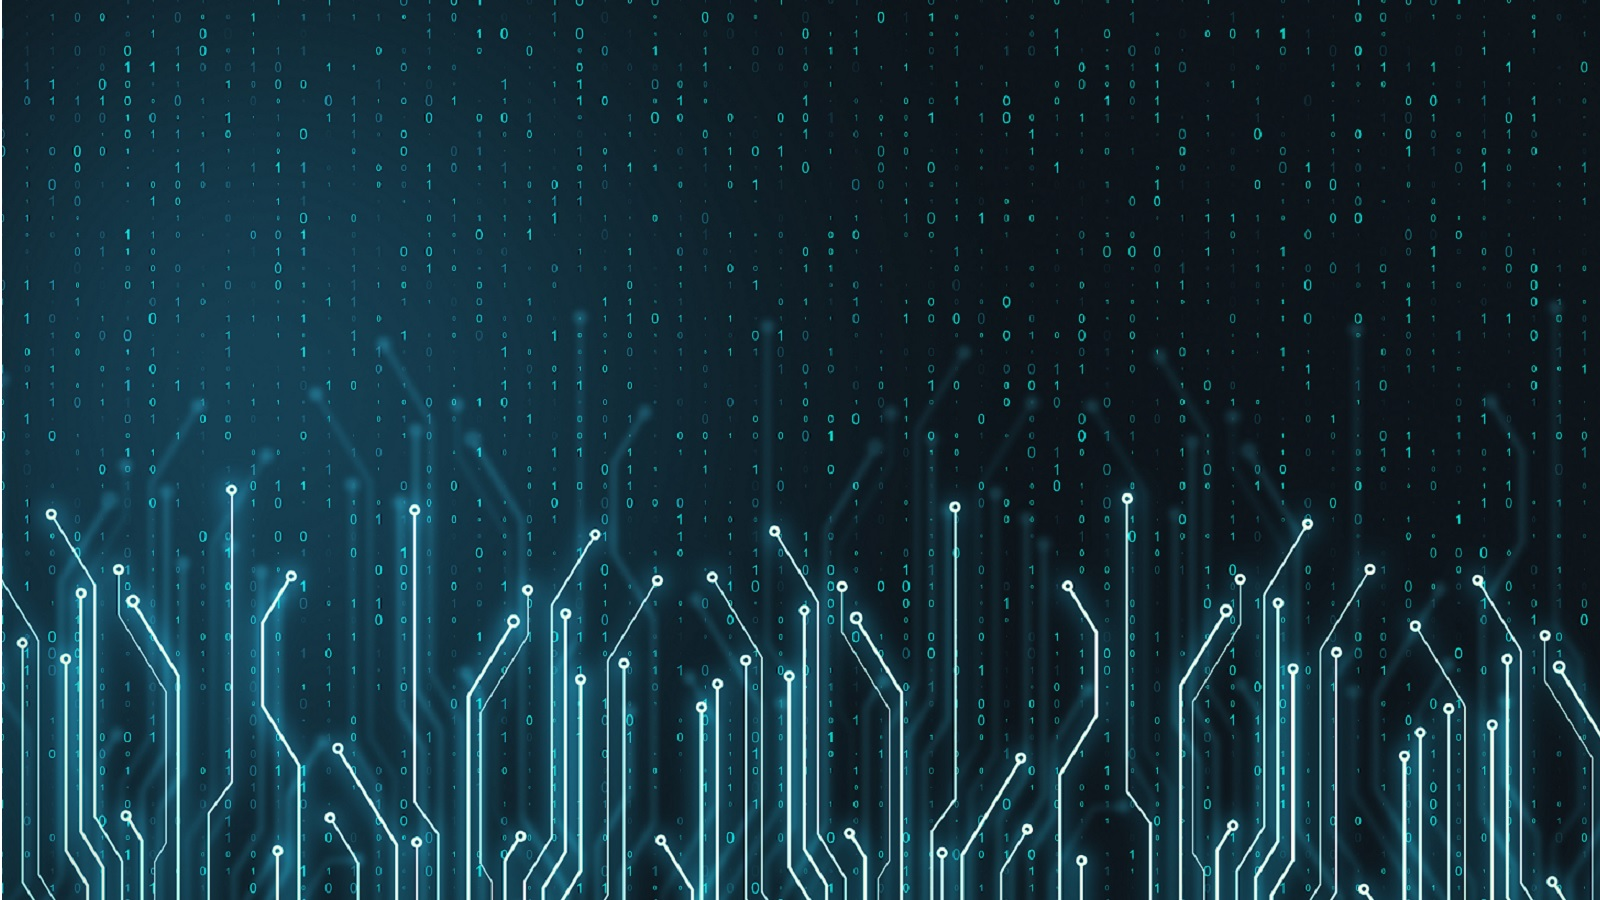
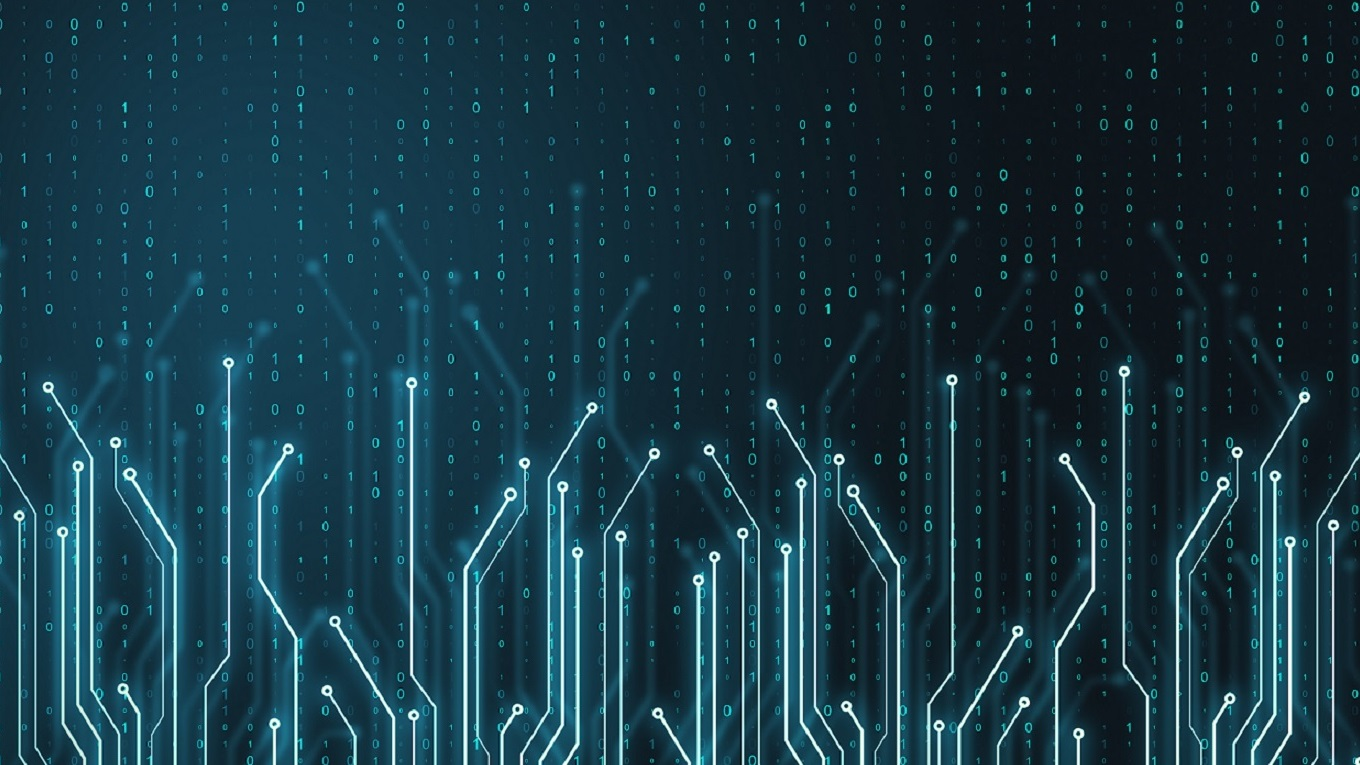
resize and adjust

diff --git a/varSetup.h b/varSetup.h
@@ -26,33 +26,33 @@ struct Block{
 
 void atribuire(){
 //Start
-ButtonsFirstMenu[0].up_left.x=500;
+ButtonsFirstMenu[0].up_left.x=380;
 ButtonsFirstMenu[0].up_left.y=450;
-ButtonsFirstMenu[0].dwn_right.x=1100;
+ButtonsFirstMenu[0].dwn_right.x=980;
 ButtonsFirstMenu[0].dwn_right.y=480;
 strcpy(ButtonsFirstMenu[0].text,"Start");
 ButtonsFirstMenu[0].textSize=3;
 ButtonsFirstMenu[0].color=3;
 //Setari
-ButtonsFirstMenu[1].up_left.x=500;
+ButtonsFirstMenu[1].up_left.x=380;
 ButtonsFirstMenu[1].up_left.y=500;
-ButtonsFirstMenu[1].dwn_right.x=1100;
+ButtonsFirstMenu[1].dwn_right.x=980;
 ButtonsFirstMenu[1].dwn_right.y=530;
 strcpy(ButtonsFirstMenu[1].text,"Setari");
 ButtonsFirstMenu[1].textSize=3;
 ButtonsFirstMenu[1].color=3;
 //Info?
-ButtonsFirstMenu[2].up_left.x=500;
+ButtonsFirstMenu[2].up_left.x=380;
 ButtonsFirstMenu[2].up_left.y=550;
-ButtonsFirstMenu[2].dwn_right.x=1100;
+ButtonsFirstMenu[2].dwn_right.x=980;
 ButtonsFirstMenu[2].dwn_right.y=580;
 strcpy(ButtonsFirstMenu[2].text,"Info");
 ButtonsFirstMenu[2].textSize=3;
 ButtonsFirstMenu[2].color=3;
 //Iesire
-ButtonsFirstMenu[3].up_left.x=500;
+ButtonsFirstMenu[3].up_left.x=380;
 ButtonsFirstMenu[3].up_left.y=600;
-ButtonsFirstMenu[3].dwn_right.x=1100;
+ButtonsFirstMenu[3].dwn_right.x=980;
 ButtonsFirstMenu[3].dwn_right.y=630;
 strcpy(ButtonsFirstMenu[3].text,"Iesire");
 ButtonsFirstMenu[3].textSize=3;
@@ -66,77 +66,77 @@ ButtonsFirstMenu[3].color=3;
 ButtonsApp[0].up_left.x=5;
 ButtonsApp[0].up_left.y=5;
 ButtonsApp[0].dwn_right.x=100;
-ButtonsApp[0].dwn_right.y=60;
+ButtonsApp[0].dwn_right.y=40;
 strcpy(ButtonsApp[0].text,"Inapoi");
-ButtonsApp[0].textSize=3;
+ButtonsApp[0].textSize=2;
 ButtonsApp[0].color=3;
 //Schema noua
 ButtonsApp[1].up_left.x=110;
 ButtonsApp[1].up_left.y=5;
-ButtonsApp[1].dwn_right.x=469;
-ButtonsApp[1].dwn_right.y=60;
+ButtonsApp[1].dwn_right.x=310;
+ButtonsApp[1].dwn_right.y=40;
 strcpy(ButtonsApp[1].text,"Schema noua");
-ButtonsApp[1].textSize=3;
+ButtonsApp[1].textSize=2;
 ButtonsApp[1].color=3;
 //Incarcare schema
-ButtonsApp[2].up_left.x=480;
+ButtonsApp[2].up_left.x=320;
 ButtonsApp[2].up_left.y=5;
-ButtonsApp[2].dwn_right.x=838;
-ButtonsApp[2].dwn_right.y=60;
+ButtonsApp[2].dwn_right.x=570;
+ButtonsApp[2].dwn_right.y=40;
 strcpy(ButtonsApp[2].text,"Incarcare schema");
-ButtonsApp[2].textSize=3;
+ButtonsApp[2].textSize=2;
 ButtonsApp[2].color=3;
 //Salvare schema
-ButtonsApp[3].up_left.x=850;
+ButtonsApp[3].up_left.x=580;
 ButtonsApp[3].up_left.y=5;
-ButtonsApp[3].dwn_right.x=1175;
-ButtonsApp[3].dwn_right.y=60;
+ButtonsApp[3].dwn_right.x=830;
+ButtonsApp[3].dwn_right.y=40;
 strcpy(ButtonsApp[3].text,"Salvare schema");
-ButtonsApp[3].textSize=3;
+ButtonsApp[3].textSize=2;
 ButtonsApp[3].color=3;
 ///////////////////////////////////////////
 // Panou stanga
 ///////////////////////////////////////////
 
 // Executa
-PannelSchem[0].up_left.x=1070;
-PannelSchem[0].up_left.y=70;
-PannelSchem[0].dwn_right.x=1175;
-PannelSchem[0].dwn_right.y=130;
+PannelSchem[0].up_left.x=840;
+PannelSchem[0].up_left.y=2;
+PannelSchem[0].dwn_right.x=1025;
+PannelSchem[0].dwn_right.y=43;
 strcpy(PannelSchem[0].text,"Executa");
 PannelSchem[0].textSize=2;
 PannelSchem[0].color=2;
 // Pranteza sus [
 PannelSchem[1].up_left.x=5;
-PannelSchem[1].up_left.y=70;
+PannelSchem[1].up_left.y=45;
 PannelSchem[1].dwn_right.x=100;
-PannelSchem[1].dwn_right.y=110;
+PannelSchem[1].dwn_right.y=80;
 PannelSchem[1].color=3;
 // Fundal
 PannelSchem[3].up_left.x=15;
-PannelSchem[3].up_left.y=85;
+PannelSchem[3].up_left.y=63;
 PannelSchem[3].dwn_right.x=90;
-PannelSchem[3].dwn_right.y=880;
+PannelSchem[3].dwn_right.y=745;
 PannelSchem[3].color=15;
 //   Pranteza jos ]
 PannelSchem[2].up_left.x=5;
-PannelSchem[2].up_left.y=855;
+PannelSchem[2].up_left.y=725;
 PannelSchem[2].dwn_right.x=100;
-PannelSchem[2].dwn_right.y=895;
+PannelSchem[2].dwn_right.y=763;
 PannelSchem[2].color=3;
 //  Block Start
 PannelSchem[4].up_left.x=110;
-PannelSchem[4].up_left.y=70;
-PannelSchem[4].dwn_right.x=1055;
-PannelSchem[4].dwn_right.y=110;
+PannelSchem[4].up_left.y=45;
+PannelSchem[4].dwn_right.x=1025;
+PannelSchem[4].dwn_right.y=80;
 PannelSchem[4].color=3;
 strcpy(PannelSchem[4].text,"START");
 PannelSchem[4].textSize=4;
 // Block Stop
 PannelSchem[5].up_left.x=110;
-PannelSchem[5].up_left.y=855;
-PannelSchem[5].dwn_right.x=1175;
-PannelSchem[5].dwn_right.y=895;
+PannelSchem[5].up_left.y=725;
+PannelSchem[5].dwn_right.x=1025;
+PannelSchem[5].dwn_right.y=763;
 PannelSchem[5].color=3;
 strcpy(PannelSchem[5].text,"STOP");
 PannelSchem[5].textSize=4;

diff --git a/Schem.h b/Schem.h
@@ -1,9 +1,9 @@
 #include "varSetup.h"
 
-int x[4]={10,50,10,30};
-int y[4]={200,350,550,720};
-int cx[4]={10,50,10,30};
-int cy[4]={200,350,550,720};
+int x[4]={7,49,7,27};
+int y[4]={140,280,460,620};
+int cx[4]={7,49,7,27};
+int cy[4]={140,280,460,620};
 void atribuireSchem()
 {
     //////////////////////////////////
@@ -173,6 +173,7 @@ if(ismouseclick(WM_RBUTTONDOWN))
                    ok=0;
                    clearmouseclick(WM_RBUTTONDOWN);
         clearmouseclick(WM_RBUTTONUP);
+        DrawButtons(ButtonsApp,nrOfButtons);
                }
 }
         clearmouseclick(WM_LBUTTONUP);

diff --git a/App.h b/App.h
@@ -2,7 +2,7 @@
 //#include <bits/stdc++.h>
 void App()
 {
-    readimagefile("bckgnd.jpg", 0, 0, 1600, 900);
+    readimagefile("bckgnd.jpg", 0, 0, 1360, 765);
     setfillstyle( SOLID_FILL, RGB(0,155,155));
         DrawButtons(ButtonsApp,nrOfButtons);
 

diff --git a/main.cpp b/main.cpp
@@ -4,7 +4,7 @@ using namespace std;
 
 int main()
 {
-    initwindow(1600, 900, "Interschem Puiu Robert si Sirbu Sandu");
+    initwindow(1360, 765, "Interschem Puiu Robert si Sirbu Sandu");
     firstMenu();
     while(!CloseMenu)
     getch();

diff --git a/firstMenu.h b/firstMenu.h
@@ -3,7 +3,7 @@
 
 void firstMenu(){
     atribuire();
-    readimagefile("firstMenu.jpg", 0, 0, 1600, 900);
+    readimagefile("firstMenu.jpg", 0, 0, 1360, 765);
 
     DrawButtons(ButtonsFirstMenu,nrOfButtons);
 
